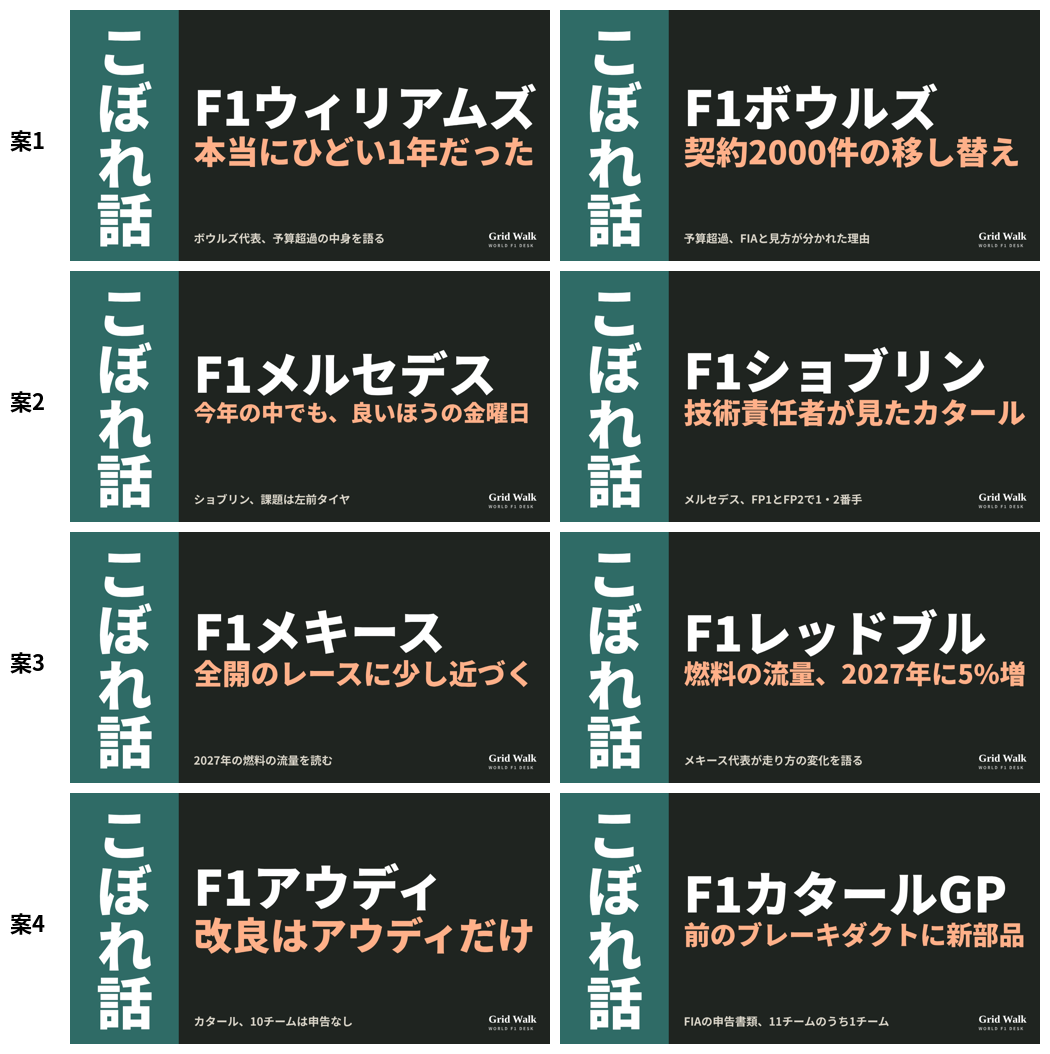
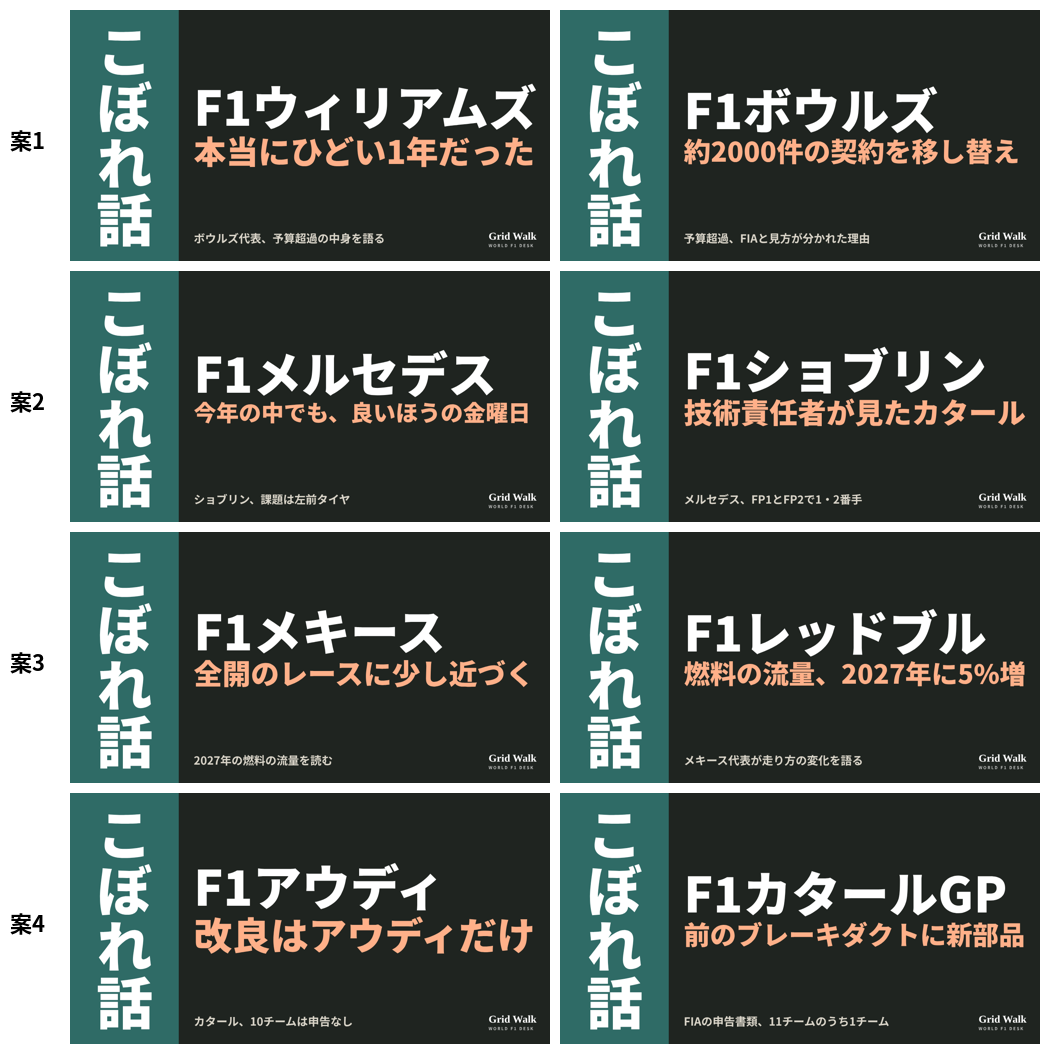
Pending: fix W2 image text
Claude-Session: https://claude.ai/code/session_01LGMvzb8B3aK7DkzCCi7qDe

Changed region(s): [[0.64, 0.0607, 0.9752, 0.1822]]

diff --git a/desk/pending/1128c/W2.html b/desk/pending/1128c/W2.html
@@ -11,7 +11,7 @@ em{font-style:normal;color:#FFB089}
 .br{position:absolute;right:36px;bottom:34px;font:700 28px Georgia,serif}.br small{display:block;font:700 11px 'Noto Sans CJK JP';letter-spacing:.24em;opacity:.7}
 .row{display:flex;align-items:center;gap:28px;white-space:nowrap;font-weight:900}
 .row svg{flex:0 0 auto}
-</style><div class=c><div class=p><b>こぼれ話</b></div><div class=r><div class=l1>F1ボウルズ</div><div class=l2><em>契約2000件の移し替え</em></div></div><div class=s>予算超過、FIAと見方が分かれた理由</div><div class=br>Grid Walk<small>WORLD F1 DESK</small></div></div>
+</style><div class=c><div class=p><b>こぼれ話</b></div><div class=r><div class=l1>F1ボウルズ</div><div class=l2><em>約2000件の契約を移し替え</em></div></div><div class=s>予算超過、FIAと見方が分かれた理由</div><div class=br>Grid Walk<small>WORLD F1 DESK</small></div></div>
 <script>
 document.querySelectorAll('.l1,.l2,.l3,.s,.row').forEach(el=>{let f=parseFloat(getComputedStyle(el).fontSize);while(el.scrollWidth>el.clientWidth+1&&f>20){f-=2;el.style.fontSize=f+'px'}});
 const r=document.querySelector('.r');let n=0;while(r.scrollHeight>r.clientHeight+1&&n++<80){document.querySelectorAll('.l1,.l2,.l3,.row').forEach(el=>{el.style.fontSize=(parseFloat(getComputedStyle(el).fontSize)-3)+'px'})}
